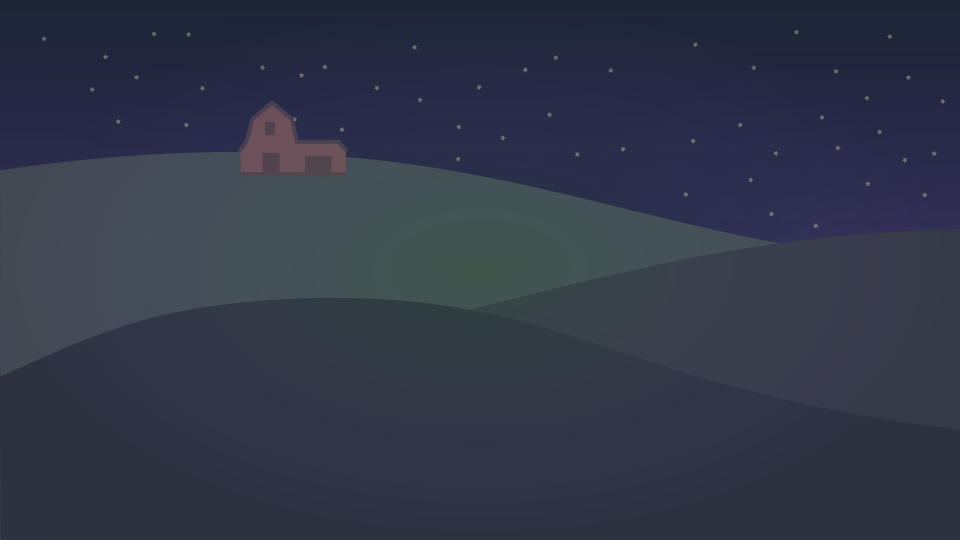
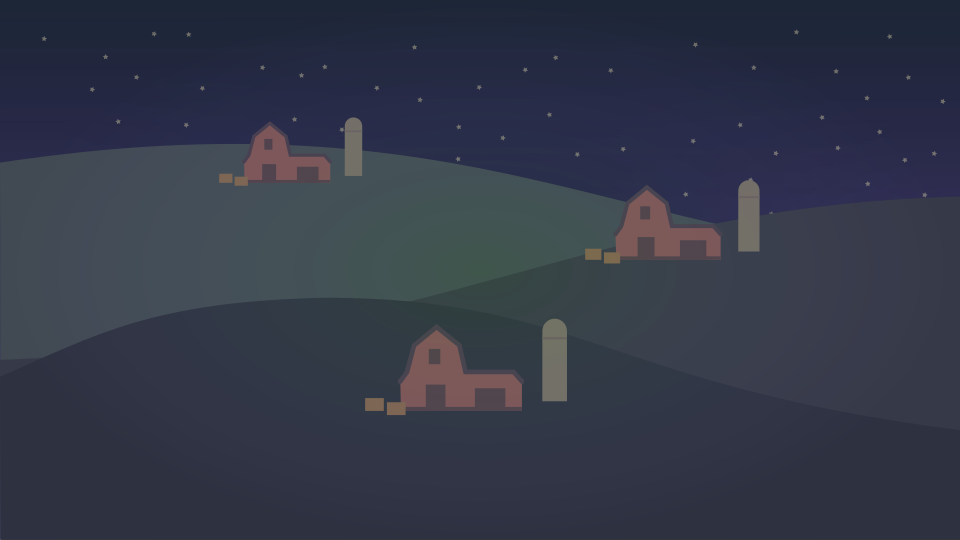
develop

Changed region(s): [[0.0, 0.1778, 0.5938, 0.3556], [0.5938, 0.3259, 0.8125, 0.5037], [0.375, 0.5926, 0.5938, 0.7704]]

diff --git a/src/class/Animal.js b/src/class/Animal.js
@@ -5,12 +5,17 @@ const LEFT = -MARGIN
 const RIGHT = config.SCREEN_WIDTH + MARGIN
 const ANIMALS = {
   cow: {
-    speed: 1
+    speed: 0.5
   },
   wolf: {
-    speed: 3
+    speed: 1
   }
 }
+const HOUSES = [
+  { x: 280, y: 180 },
+  { x: 670, y: 260 },
+  { x: 460, y: 410 }
+]
 export default {
   superClass: 'DisplayElement',
   init(name) {
@@ -22,7 +27,8 @@ export default {
     this.z = 0
     this.direction = Math.randint(0, 1) === 0 ? 1 : -1
     this.speed = ANIMALS[name].speed
-    this.setPosition(this.direction === 1 ? LEFT : RIGHT, Math.randint(150, 480))
+    const house = HOUSES[Math.floor(Math.random() * HOUSES.length)]
+    this.setPosition(house.x, Math.randint(house.y, house.y + 50))
     this.scale.x *= -this.direction
     this.shadow = Sprite('shadow')
                   .setOrigin(0.5, 0.5)
@@ -31,21 +37,21 @@ export default {
     this.shadow.alpha = 0.5
   },
   update(app) {
-    this.shadow.scale.x = 0.7 - (this.z / 200);
-    this.shadow.scale.y = 0.7 - (this.z / 200);
+    this.shadow.scale.x = 0.7 - (this.z / config.LIGHT_LENGTH);
+    this.shadow.scale.y = 0.7 - (this.z / config.LIGHT_LENGTH);
     const diffX = this.parent.player.x - this.x
     const diffY = this.parent.player.y - this.y
-    if(this.parent.player.abducting && Math.abs(diffX) < 70 && Math.abs(diffY + 200) < 100) {
-      if(Math.abs(diffX) > 2) this.x += diffX > 0 ? 2 : -2
-      if(Math.abs(diffY) > 2) this.y += diffY + 200 > 0 ? 2 : -2
-      this.z += 8
-      if(Math.abs(this.parent.player.y - (this.y - this.z)) < 10) {
+    if(this.parent.player.abducting && Math.abs(diffX) < 100 && Math.abs(diffY) < 100) {
+      if(Math.abs(diffX) > 2) this.x += diffX > 0 ? 3 : -3
+      if(Math.abs(diffY) > 2) this.y += diffY > 0 ? 3 : -3
+      this.z += 10
+      if(Math.abs((this.parent.player.y - this.parent.player.z) - (this.y - this.z)) < 10) {
         this.parent.score++
         this.remove()
       }
     } else {
       this.x += this.direction * this.speed
-      if(this.z > 0) this.z -= 10
+      if(this.z > 0) this.z = this.z < 10 ? 0 : this.z - 10
     }
     if(this.position.x < LEFT || this.position.x > RIGHT) {
       this.parent.lost++

diff --git a/src/class/Player.js b/src/class/Player.js
@@ -10,20 +10,23 @@ const SPEED = 4
 const MAX_SPEED = 20
 export default {
   superClass: 'DisplayElement',
+  z: config.LIGHT_LENGTH,
   init(option) {
     this.superInit(option)
     this.physical.friction = 0.9
     this.light = RectangleShape({
         width: 70,
-        height: 200,
+        height: config.LIGHT_LENGTH,
         fill: '#BD2',
         strokeWidth: 0
       })
-      .setOrigin(0.5, 0)
+      .setOrigin(0.5, 1)
       .addChildTo(this)
       this.light.blendMode = 'lighter'
     this.body = Sprite('ufo')
                 .setScale(0.3, 0.3)
+                .setOrigin(0.5, 1)
+                .setPosition(0, -this.z)
                 .addChildTo(this)
   },
   update(app) {

diff --git a/src/class/GameScene.js b/src/class/GameScene.js
@@ -1,11 +1,9 @@
 phina.globalize();
 import config from '../config/config.js'
 const STAGE = [
-  { lv: 1, frame: 30 },
-  { lv: 2, frame: 20 },
-  { lv: 3, frame: 12 },
-  { lv: 4, frame: 9 },
-  { lv: 5, frame: 6 }
+  { lv: 1, name: 'EASY', frame: 30 },
+  { lv: 2, name: 'NORMAL', frame: 20 },
+  { lv: 3, name: 'HARD', frame: 10 }
 ]
 export default {
   superClass: 'DisplayScene',

diff --git a/src/config/config.js b/src/config/config.js
@@ -13,5 +13,6 @@ export default {
   KEY_CANCEL: 'X',
   KEY_OPTION: 'C',
   KEY_SPACE: 'space',
-  KEY_ESCAPE: 'escape'
+  KEY_ESCAPE: 'escape',
+  LIGHT_LENGTH: 150
 };
